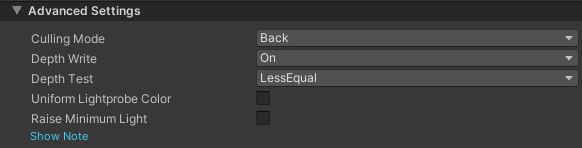
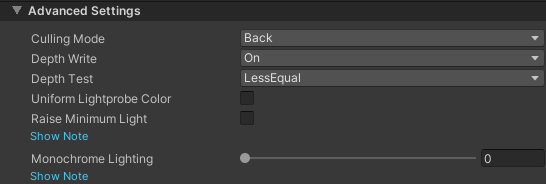
added monochrome lighting option to toon

diff --git a/src/pages/docs/changelog.md b/src/pages/docs/changelog.md
@@ -62,6 +62,7 @@ Version 7.0.0 adds lots of new features, improvements, and bugfixes. This releas
 - Glitch Screen shader now has a separate **Transparency** texture that can be used to control the alpha channel of the material. It now also supports different render types.
 - You can now enable LTCGI on mobile platforms.
 - Toon shaders now support using Bicubic sampling for the normal map. This can be useful for lower resolution/more aliased normal maps.
+- Toon shaders now have a "Monochrome Lighting" slider. This allows you to control how much the color of the environment lighting affects the object's color. At 1 only the intensity of the lighting is used.
 
 ### Bugfixes
 

diff --git a/src/pages/docs/toon/base-shader.md b/src/pages/docs/toon/base-shader.md
@@ -245,3 +245,4 @@ Rim shadow is an interesting effect that emphasizes the curved shapes of the mes
 - Depth Test: Controls how the depth testing is performed, you generally never need to change this
 - Uniform Lightprobe Color: Samples the lightprobe color uniformly instead of using mesh normal directions. Can be useful for more stylized looking lighting.
 - Raise Minimum Light: Increases the minimum lighting level of the material in environments with no lighting data
+- Monochrome Lighting: Controls how much the color of the environment lighting affects the object's color. At 1 only the intensity of the environment lighting is used, while the color is ignored.
